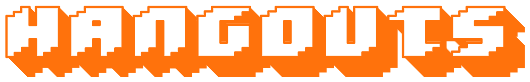
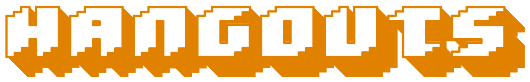
fixed css

diff --git a/frontend/src/components/Navigation/navigation.css b/frontend/src/components/Navigation/navigation.css
@@ -44,13 +44,13 @@
     margin-left: -15px;
   }
   .homeLogo {
-    width: 170px;
-    height: 30px;
+    width: 160px;
+    height: 25px;
   }
 
   .homeLogo:hover {
-    width: 175px;
-    height: 35px;
+    width: 163px;
+    height: 28px;
   }
 
 
